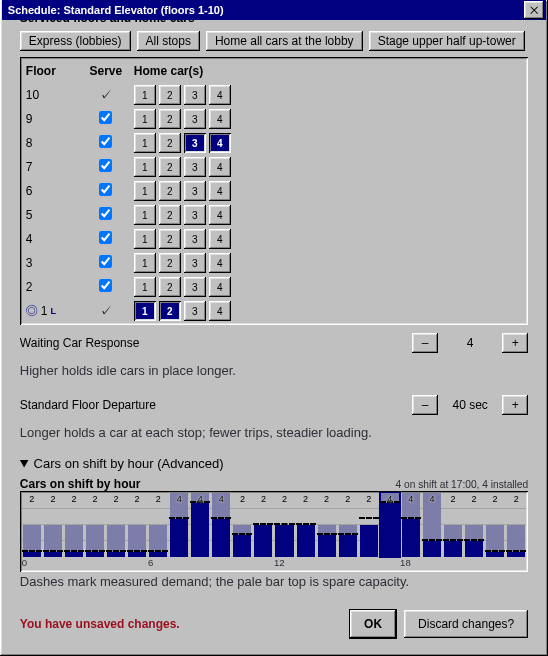
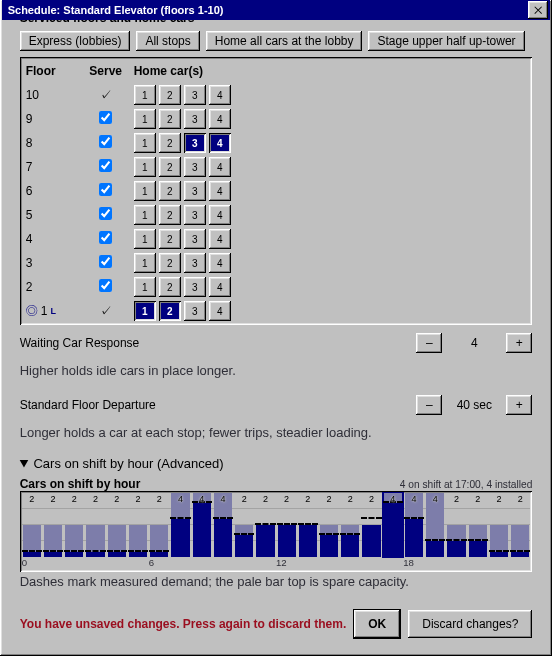
Refresh the unsaved-schedule screenshot and close the #670 and #833 rows
The 27c gallery shot is rendered in the pinned Playwright image
(v1.61.1-jammy) and shows the new armed warning text.

Claude-Session: https://claude.ai/code/session_01Ms7tra83XqSGyyH9cp6LRy

diff --git a/_bmad-output/implementation-artifacts/backlog.md b/_bmad-output/implementation-artifacts/backlog.md
@@ -205,7 +205,7 @@ How items flow:
 | 2026-10-20 | engine-compat-coverage | #1161 | engine-rs | review-deferral | P3 | medium | — | open | **Post-3.0 (backlog triage 2026-10-28): listed under post-3.0 in the engine triage on #1104 (2026-10-28).** **Ready.** Deferred from the independent review of #1157 (#963 slice 1). The crate version guard pins the lock, the five version constants and `engine.d.ts` outside comments. It does not see the Rust `pub` API, a JSON shape the declaration only describes in a doc comment (the `markers` argument and the `commuteStress` reply, which #1101 changes), or a save field added through the loader's optional seam. CONTRIBUTING.md (Versioning) still asks for a bump in each case, so a reviewer has to catch it. Fix: pin each with a checked shape or record in the review checklist that it stays a review call. |
 | 2026-10-20 | engine-identity-followups | #1169 | engine-rs | review-deferral | P3 | low | — | open | **Post-3.0 (backlog triage 2026-10-28): listed under post-3.0 in the engine triage on #1104 (2026-10-28).** **Ready.** Deferred from the `/bmad-code-review` and `/gds-code-review` passes on #963 slices 2 to 4. (1) A `WebAssembly.LinkError` inside the worker is coded `boot-error`, because the worker posts only a message string; the worker should post `bootFailureReason(err)` and the controller reject with `EngineBootError` (overlaps #1086). (2) `compileEngineBinary` takes a URL; when the S16 package check (#985) returns verified bytes the loader needs `compileEngineBytes(bytes)`, and the wrong-package-id e2e can then be written. (3) The worker respawn callback in `bootstrap.ts` drops the new worker's identity and build metadata. (4) `engineIdentityLiterals.guard.test.ts` does not pin the save version (the TypeScript engine has its own legitimate `SAVE_VERSION`). (5) The dual-run worker and the perf harness loaders still call the glue's own `mod.default()`, so boot-path timings do not follow the production loader (benchmark-correctness family, #1162/#1164). `/gds-code-review` for 1, 2 and 3, `/bmad-code-review` for 4 and 5. |
 | 2026-08-13 | figure-guard-blind-to-non-figures | #832 | visual-parity | task | P3 | low | — | open | **Deferred from the second `gds-code-review` of the room occupant seats fix (#813, PR #831).** `roomContainment.test.ts`'s figure-overlap guard finds figures by the contact-shadow literal `rgba(0,0,0,0.24)` that `personFigure` stamps, so occupants drawn as something else are invisible to it: a daycare's children (`child()`, a 3px silhouette) and a spa guest on a massage table (a fold of linen). Five swept kinds perform zero comparisons: daycare, spa, Weight Floor, Boxing Gym, Climbing Wall. The daycare matters because its `places` row is one this change rewired, and at 60-117px its last child collides with the caregiver's torso. That is below the daycare's shipped 120px catalog width and the child paints over the caregiver rather than under, so nothing visible is wrong today, but a width move would not be caught. Fix by locating non-figure occupants on their own literals so coverage follows the occupant, not the sprite build. Smaller and related: grouping by exact `foot` would silently skip a future pair of figures 1px apart in y. |
-| 2026-08-13 | ghost-coverage-five-looks | #833 | visual-parity | task | P3 | low | — | open | **Deferred from the second `gds-code-review` of the room occupant seats fix (#813, PR #831).** `roomCapacity.test.ts`'s honesty half (a room draws `min(people, seats)`, no ghosts) covers skyBar, nightclub, daycare, Yoga Studio and Spin Studio. VR Lounge, Mini Golf, Weight Floor, Boxing Gym and Climbing Wall are only rendered at full occupancy and asserted for capacity, so nothing asserts an EMPTY one of those draws nobody: a ghost member in an unoccupied gym passes the whole suite. The suite's own framing is that under-drawing and ghosts are equally wrong, so extend the honesty sweep to every populated look rather than only the ones this pass rewired. |
+| 2026-08-13 | ghost-coverage-five-looks | #833 | visual-parity | task | P3 | low | — | done | **DONE (2026-11-14, PR #2198 merged, closed #833): the honesty sweep in `roomCapacity.test.ts` now covers the VR lounge, mini golf, weight floor, boxing gym and climbing wall at min(present, seats).** **Deferred from the second `gds-code-review` of the room occupant seats fix (#813, PR #831).** `roomCapacity.test.ts`'s honesty half (a room draws `min(people, seats)`, no ghosts) covers skyBar, nightclub, daycare, Yoga Studio and Spin Studio. VR Lounge, Mini Golf, Weight Floor, Boxing Gym and Climbing Wall are only rendered at full occupancy and asserted for capacity, so nothing asserts an EMPTY one of those draws nobody: a ghost member in an unoccupied gym passes the whole suite. The suite's own framing is that under-drawing and ghosts are equally wrong, so extend the honesty sweep to every populated look rather than only the ones this pass rewired. |
 | 2026-10-15 | room-seat-picks-correlate | #1069 | visual-parity | review-deferral | P3 | low | — | open | **Deferred from the round-1 `gds-code-review` of the refreshed room occupant seats fix (#813, PR #831), Blind Hunter, low.** `busyStations` ranks stations by `hash(seed + i)` and its callers pass `figureSeed(u) * k` for a small per-row `k`, so two rooms whose figure seeds differ by one share most of their pick order shifted by `k` places on a row longer than `k`, and a floor of identical rooms can repeat one scatter. Cosmetic: the count stays `min(people, stations)` and the picks stay a pure function of the seed. Fix by mixing seed and index before hashing while keeping the ranking a prefix order (a crowd must only grow as people arrive, which the atlas relies on). Moves pixels, so it rides the visual baselines. |
 | 2026-10-15 | room-crowd-tests-hardening | #1070 | visual-parity | task | P3 | low | — | open | **Deferred from the round-1 `gds-code-review` of the refreshed room occupant seats fix (#813, PR #831), Blind Hunter, low.** The guards that fix added can pass for the wrong reason in places: `roomContainment.test.ts` reads only `fillRect` spans and runs containment at whole-pixel origins only; one `artScale.test.ts` case restates `artRow`'s own formula, its "never stacks" case wraps one call, and its fractional case accepts an anchor a pixel outside the run; `roomCapacity.test.ts` restates row margins in its expectations; figure counts key off shared color literals (contact shadow, skin, single hex keys); and the "quiet hall scatters" case measures spread against its own sample range. Make each check fail when the property it names breaks. Added by the second review of the merged stack, and closed by the independent review of PR #831: each rewired painter is now held to the atlas rounding (`roomOccupants.test.ts` draws every rewired kind at `k - 0.5` and `k - 0.01` people and requires the picture of `k`), and a lone visitor is held to a spread over the whole row and the nightclub to its 6px pitch and a clear booth (`roomCrowdSpread.test.ts`); all mutation-checked. Still open: no test draws a fractional `outForMeal` through the painters, the crowd-only-grows sweep leaves out the office and runs one floor and 16 columns, and the containment sweeps run `busyStations` partial crowds at none of the widths. |
 | 2026-10-20 | room-painters-read-ts-engine | — | visual-parity | task | P3 | low | — | done | **TypeScript-engine retirement, done.** `roomOccupants` in `src/render/pixelSprites/common.ts` now computes a room's visible count itself (`occupants` minus `outForMeal`, rounded up, both clamped as the atlas clamps them) and every room painter, residential, food, clinic and the venue sprites included, reads it from there, so no painter imports `visibleOccupants` from the TypeScript engine. The engine's frame already carries `occupants` and `outForMeal` per room, so the renderer owns only this display rule, which the atlas archive records. The ratchet lost six lines. |
@@ -335,7 +335,7 @@ How items flow:
 | 2026-07-29 | import-failure-toasts-under-dialog | — | title-screen-load-tower | review-deferral | P3 | low | — | resolved |**FIXED in the modal-precedence follow-up (v2.2.0), closes #686.** `UI.sayVisibly` routes a line into the dialog in the way, or into the next to mount, and uses a toast only when nothing is on screen. The read error in `uiImport`, and the `importGame` and `exportLegacy` failures in `saveLoad`, all go through it now, so no refusal on this flow reports itself where a dialog paints over it. |
 | 2026-07-28 | crash-card-actions-below-fold | — | code health | review-deferral | P1 | low | — | done | **DONE (closes #668 on merge): `.crash-card > .modal-actions` pins the buttons to the bottom of the card with the footer's cover and redrawn bevel; `stickyDialogActions.guard.test.ts` pins the rule and the gallery adds `crash-screen-pinned` at 720x240.** **Deferred from `/bmad-code-review` of the pinned dialog footer (PR #664, v1.104.0).** The pinned-footer rule is scoped to `.modal-box > .modal-actions`, so the crash card (`src/ui/crashScreen.ts`) is not covered. On a short or landscape phone its Reload / Download buttons can sit below the fold, and the crash card deliberately suppresses Esc, so a player who cannot scroll to the buttons has no way out. This is the exact failure this PR fixed for dialogs, on the one surface where the fallback is worst. Fix: give the crash card the same sticky treatment (its own rule, since it is not a `.modal-box`), plus a shot at a short viewport. `/bmad-code-review`. |
 | 2026-07-28 | schedule-dirty-noop-edits | #669 | code health | review-deferral | P3 | low | — | idea | **Deferred from `/bmad-code-review` of the pinned dialog footer (PR #664, v1.104.0).** `state.dirty` in `src/ui/uiElevatorSchedule.ts` is set by the fact that a handler ran, not by the working copy actually changing, so two mismatches exist in opposite directions. A stepper clamped at its limit, or a preset reapplying the values already in place, marks the dialog dirty and shows "You have unsaved changes." over an unchanged schedule. Conversely the Serve toggle re-snaps `homeFloors` in `afterStops` without setting the flag, so a re-home caused by unserving a floor can be discarded by Esc with no warning. Fix: compare a serialized snapshot before and after each handler and set `dirty` from the comparison. `/bmad-code-review`. |
-| 2026-07-28 | schedule-esc-announcement | #670 | accessibility | review-deferral | P3 | low | — | idea | **Deferred from `/bmad-code-review` of the pinned dialog footer (PR #664, v1.104.0).** The unsaved-changes warning renders on `state.dirty` and only flips `role` from `status` to `alert` when Esc arms the guard. Flipping the role on an existing node whose text is unchanged announces nothing, so a screen-reader user who presses Esc gets no feedback that the first press was absorbed, which is the same class of miss (feedback the player never perceives) that this PR fixed visually. Fix: change the warning's TEXT when armed, e.g. to name the second press as the discard, so the live region has something to announce. `/bmad-code-review`. |
+| 2026-07-28 | schedule-esc-announcement | #670 | accessibility | review-deferral | P3 | low | — | done | **DONE (closes #670 on merge, PR #2216, finishing contributor PR #2017): armed, the warning reads "You have unsaved changes. Press again to discard them.", so the live region announces the change. Test: `uiElevatorScheduleEdits.test.ts` "routes Esc through the same guard".** **Deferred from `/bmad-code-review` of the pinned dialog footer (PR #664, v1.104.0).** The unsaved-changes warning renders on `state.dirty` and only flips `role` from `status` to `alert` when Esc arms the guard. Flipping the role on an existing node whose text is unchanged announces nothing, so a screen-reader user who presses Esc gets no feedback that the first press was absorbed, which is the same class of miss (feedback the player never perceives) that this PR fixed visually. Fix: change the warning's TEXT when armed, e.g. to name the second press as the discard, so the live region has something to announce. `/bmad-code-review`. |
 | 2026-07-28 | pinned-footer-selector-fails-open | #671 | code health | review-deferral | P3 | low | — | idea | **Deferred from `/bmad-code-review` of the pinned dialog footer (PR #664, v1.104.0).** The footer is matched by `.modal-box > .modal-actions:last-child, :nth-last-child(2)`, which fails OPEN: a dialog that renders two elements after its action row, or that wraps its body in a container, silently gets no pinned footer and no test notices (the guard test reads the stylesheet, the unit tests have no layout, and only Help/Settings/schedule have shots). The cost of forgetting is the original data-loss bug returning with a green suite. `:nth-last-child(2)` is also positional rather than semantic, so a top-level mid-body action row sitting second-to-last would be pinned as though it were a footer. Fix: mark the footer explicitly (a `data-` attribute or a `.modal-footer` class the templates opt into) so matching is semantic and a missing footer is detectable. `/bmad-code-review`. |
 | 2026-07-28 | modal-warn-wraps-on-phone | #672 | code health | review-deferral | P3 | low | — | idea | **Deferred from `/bmad-code-review` of the pinned dialog footer (PR #664, v1.104.0).** `.modal-warn` is an unbounded flex item in a `flex-wrap: wrap` strip. At phone width "You have unsaved changes." plus OK plus "Discard changes?" can wrap, making the pinned strip a line taller and eating scrollport on exactly the narrow case the pin exists for. No committed shot has the warning present at phone width. Fix: give the warning `min-width: 0` with truncation or an explicit two-line allowance, and add a phone-width shot with the dialog dirty. `/bmad-code-review`. |
 | 2026-07-28 | segment-shaft-multi-run | — | gdd-modern-expansion | review-deferral | P3 | low | — | resolved | **RESOLVED (trued up 2026-10-15): #662 was closed as completed on GitHub on 2026-07-29 while this row still read `idea`.** **Deferred from `/gds-code-review` of the #647 segment-routing change (v1.103.0).** `landingSeg` (`src/engine/tower/segments.ts`) links a transport to the run containing the first structural tile under its footprint. If a shaft footprint straddles a gap and overlaps TWO runs on one floor (gap narrower than the shaft, structure on both sides), only the first run is linked, so a tenant on the far overlapped run reads stranded though the shaft physically reaches them. Fails safe (under-connects, never a gap-cross), cannot occur on a gap-free floor (no golden impact), rare geometry. Fix: `landingSeg` returns all overlapped runs and `buildAdjacency` links each to the stop floors; test a shaft spanning a narrow gap with a tenant on each run. `/gds-code-review`. |
